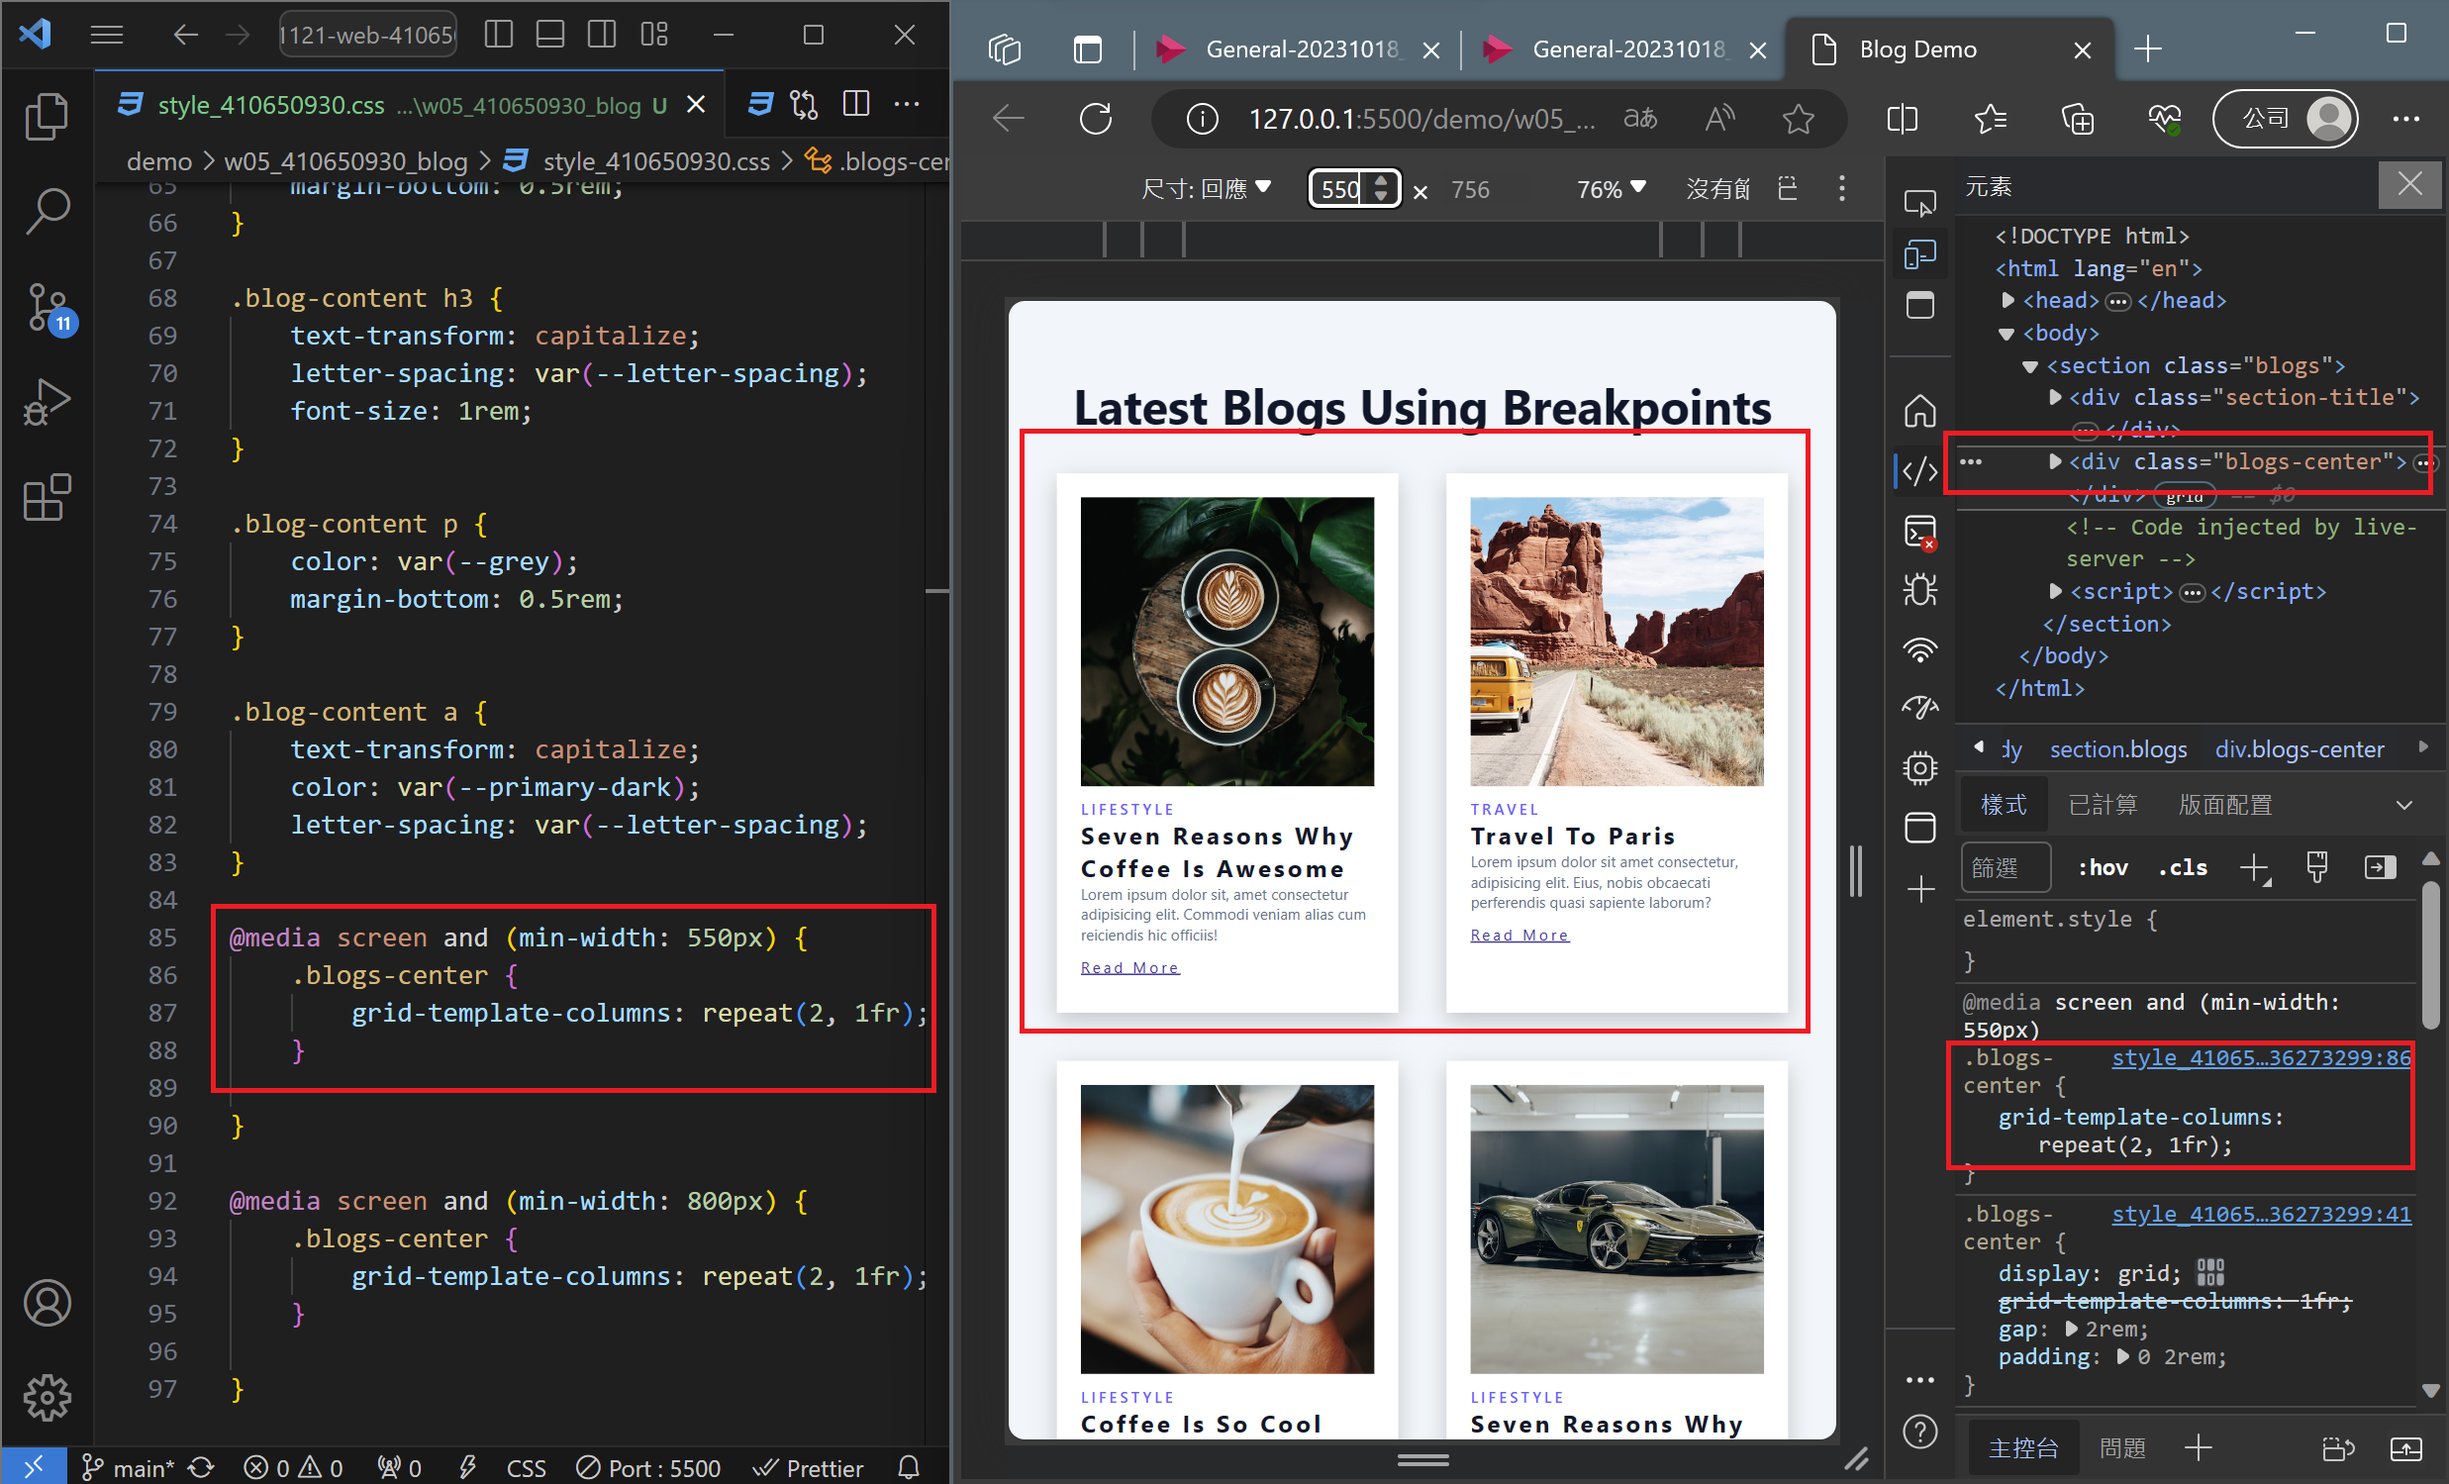
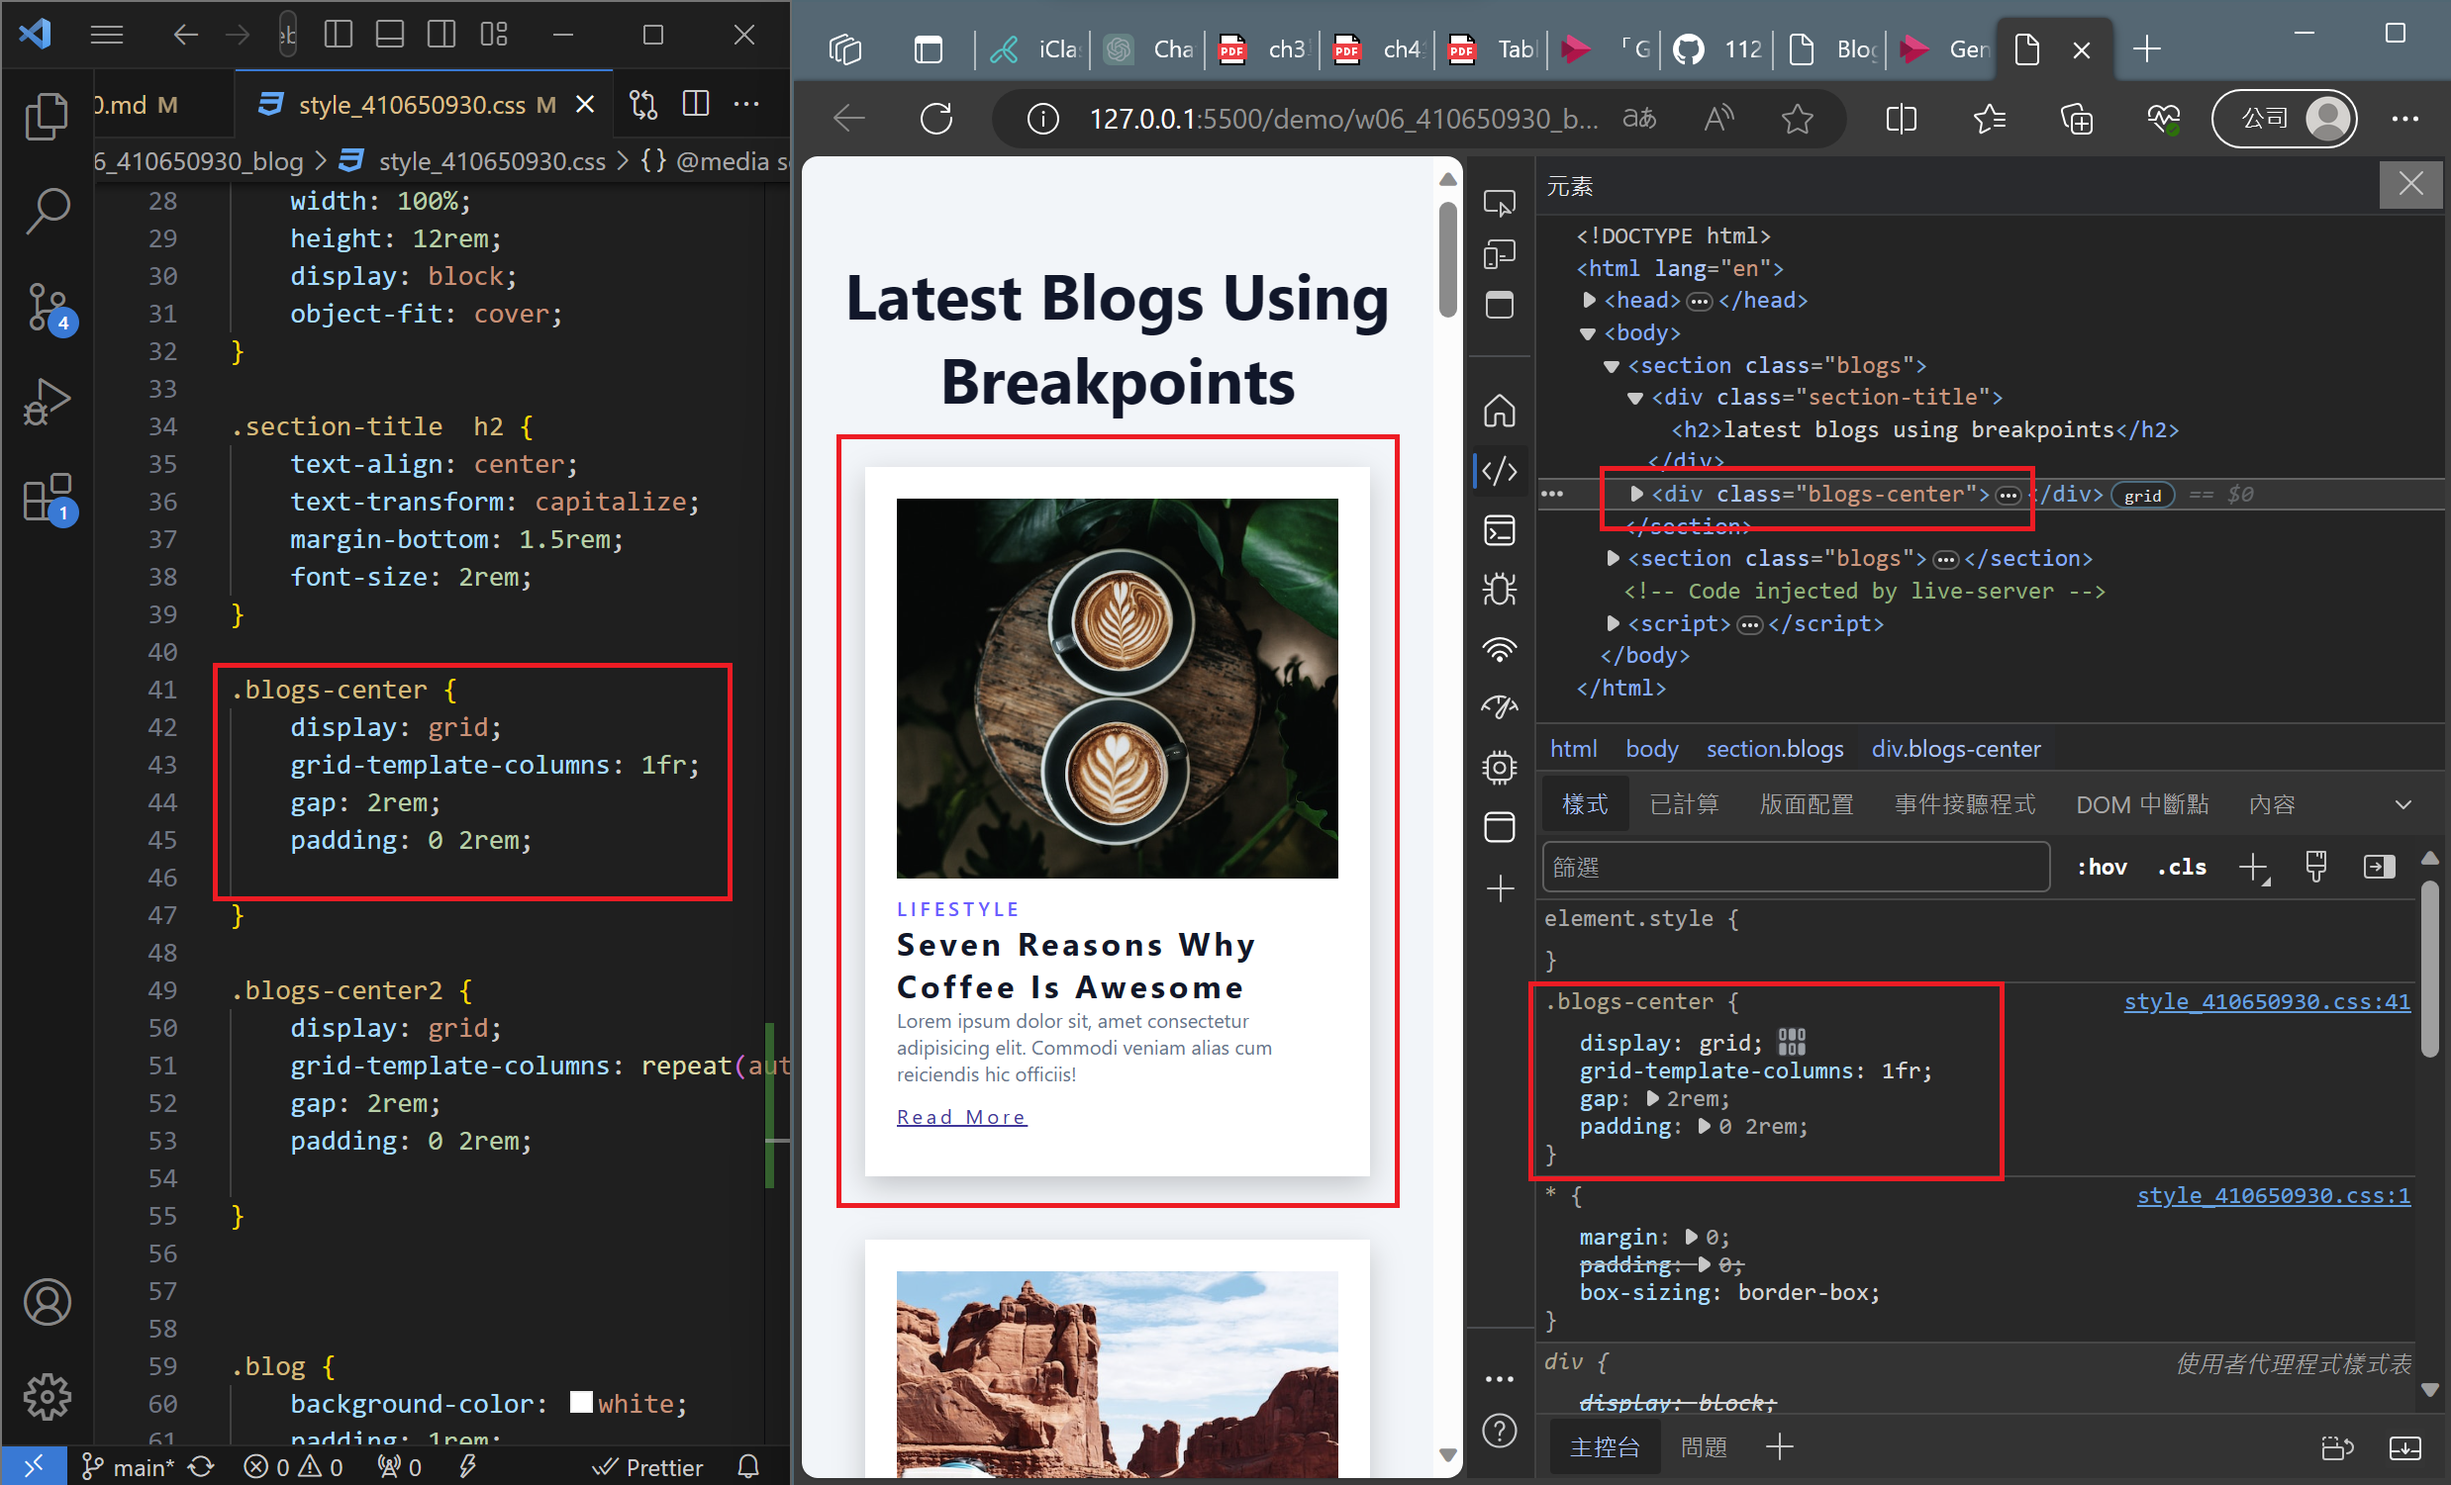
W06-P4: Show responsive when breakpoint are >=992px, >=1200px, >=1400px

diff --git a/demo/w06_410650930_blog/style_410650930.css b/demo/w06_410650930_blog/style_410650930.css
@@ -105,3 +105,24 @@ body {
     }
     
 }
+
+@media screen and (min-width: 992px) {
+    .blogs-center {
+        grid-template-columns: repeat(4, 1fr);
+    }
+    
+}
+
+@media screen and (min-width: 1200px) {
+    .blogs-center {
+        grid-template-columns: repeat(5, 1fr);
+    }
+    
+}
+
+@media screen and (min-width: 1400px) {
+    .blogs-center {
+        grid-template-columns: repeat(6, 1fr);
+    }
+    
+}

diff --git a/demo/md/w06-410650930/w06-410650930.md b/demo/md/w06-410650930/w06-410650930.md
@@ -19,7 +19,7 @@
 ![](w06-p2-3.png)
  
 ```
-
+782aadd su yung cheng   Sun Nov 5 15:12:49 2023 +0800   W06-P2: Show responsive when breakpoint are <550px >=550px, >=800px
 ```
 
 
@@ -34,7 +34,7 @@
 ![](w06-p3-4.png)
  
 ```
-
+5121bd0 su yung cheng   Wed Nov 1 14:25:24 2023 +0800   W06-P3: Show responsive using minmax approach
 ```
  
  ### W06-P4: Show responsive when breakpoint are >=992px, >=1200px, >=1400px
